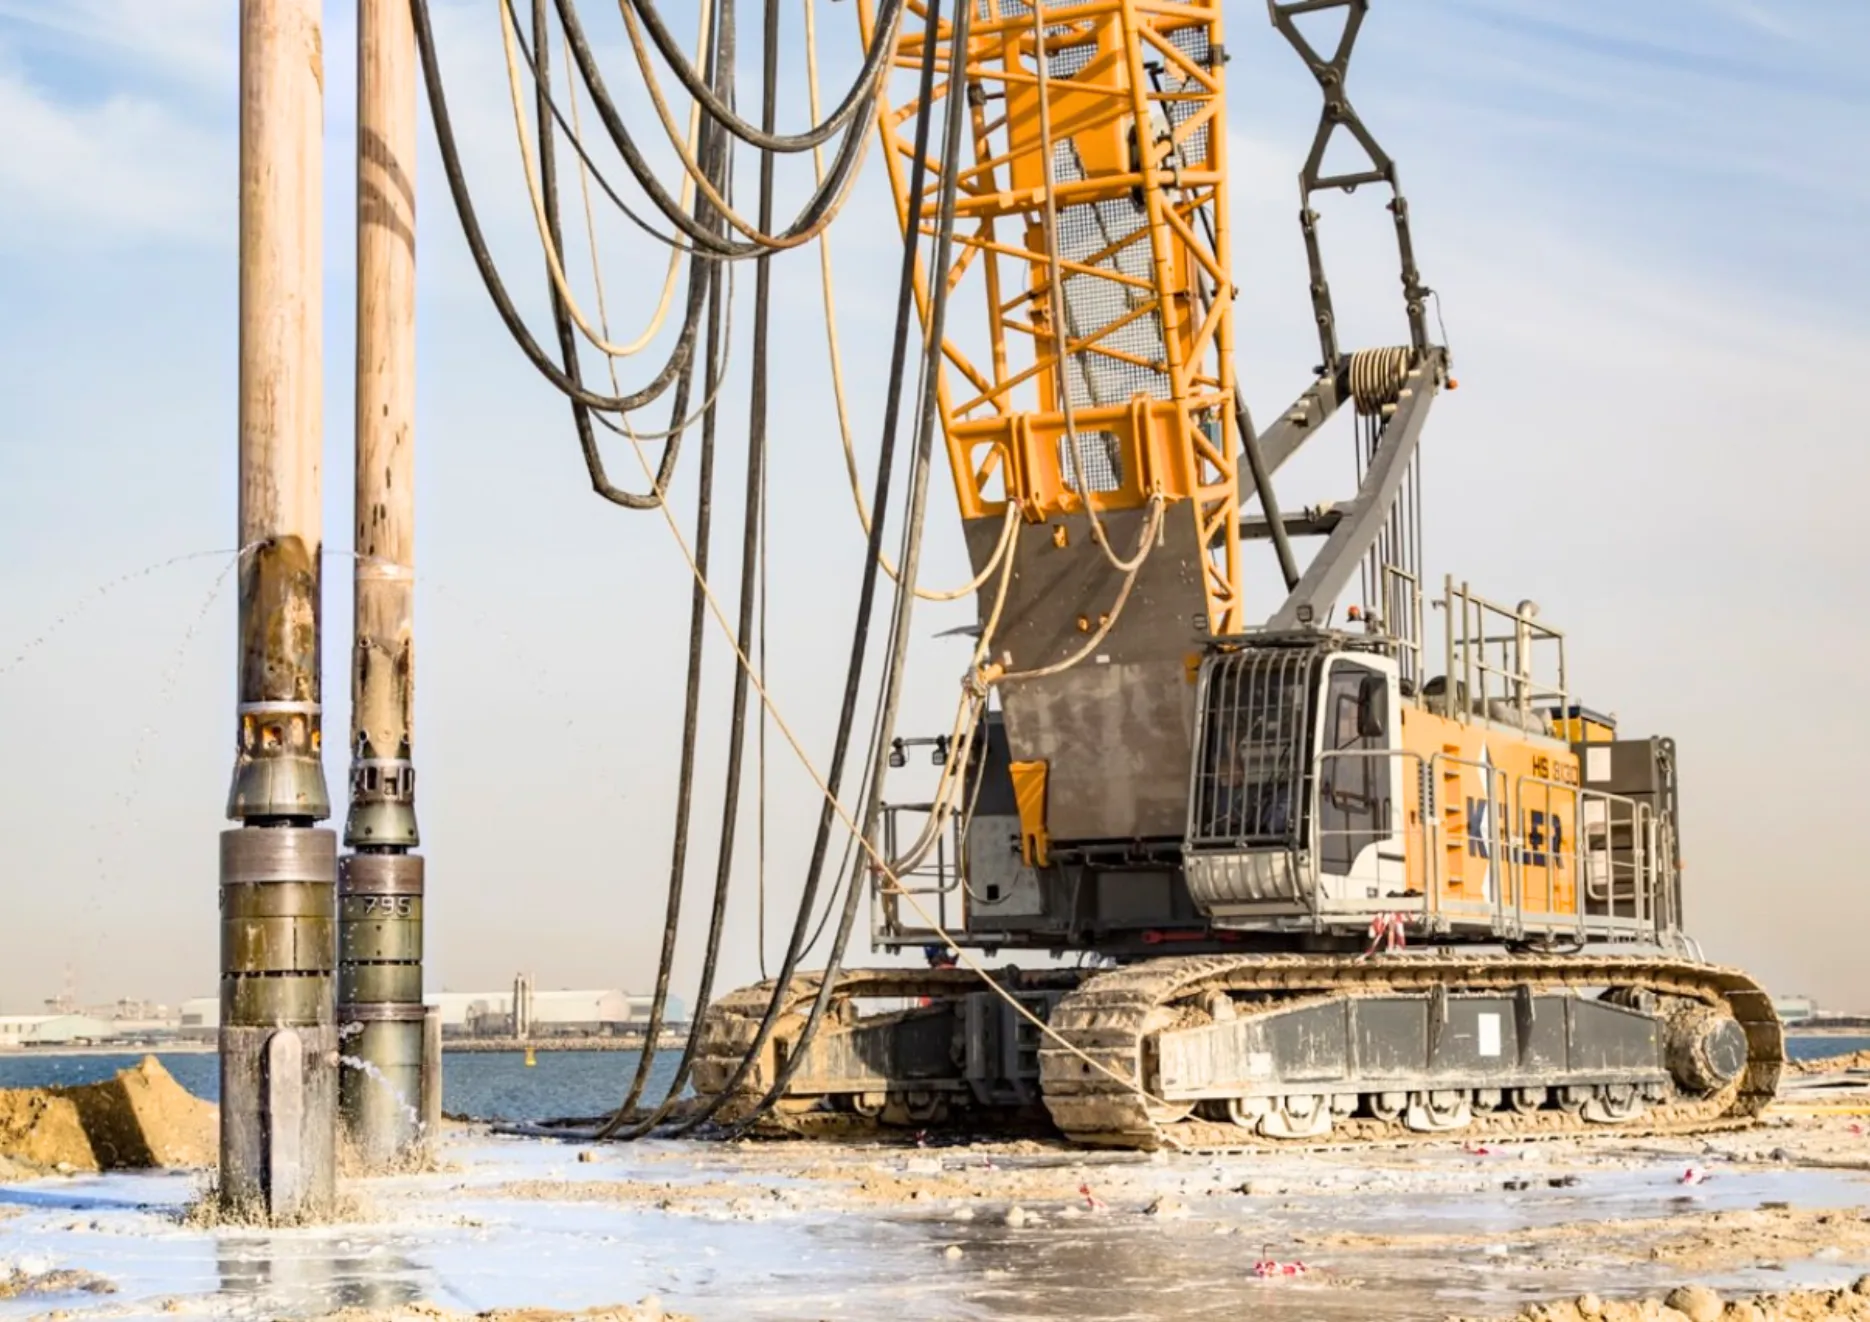
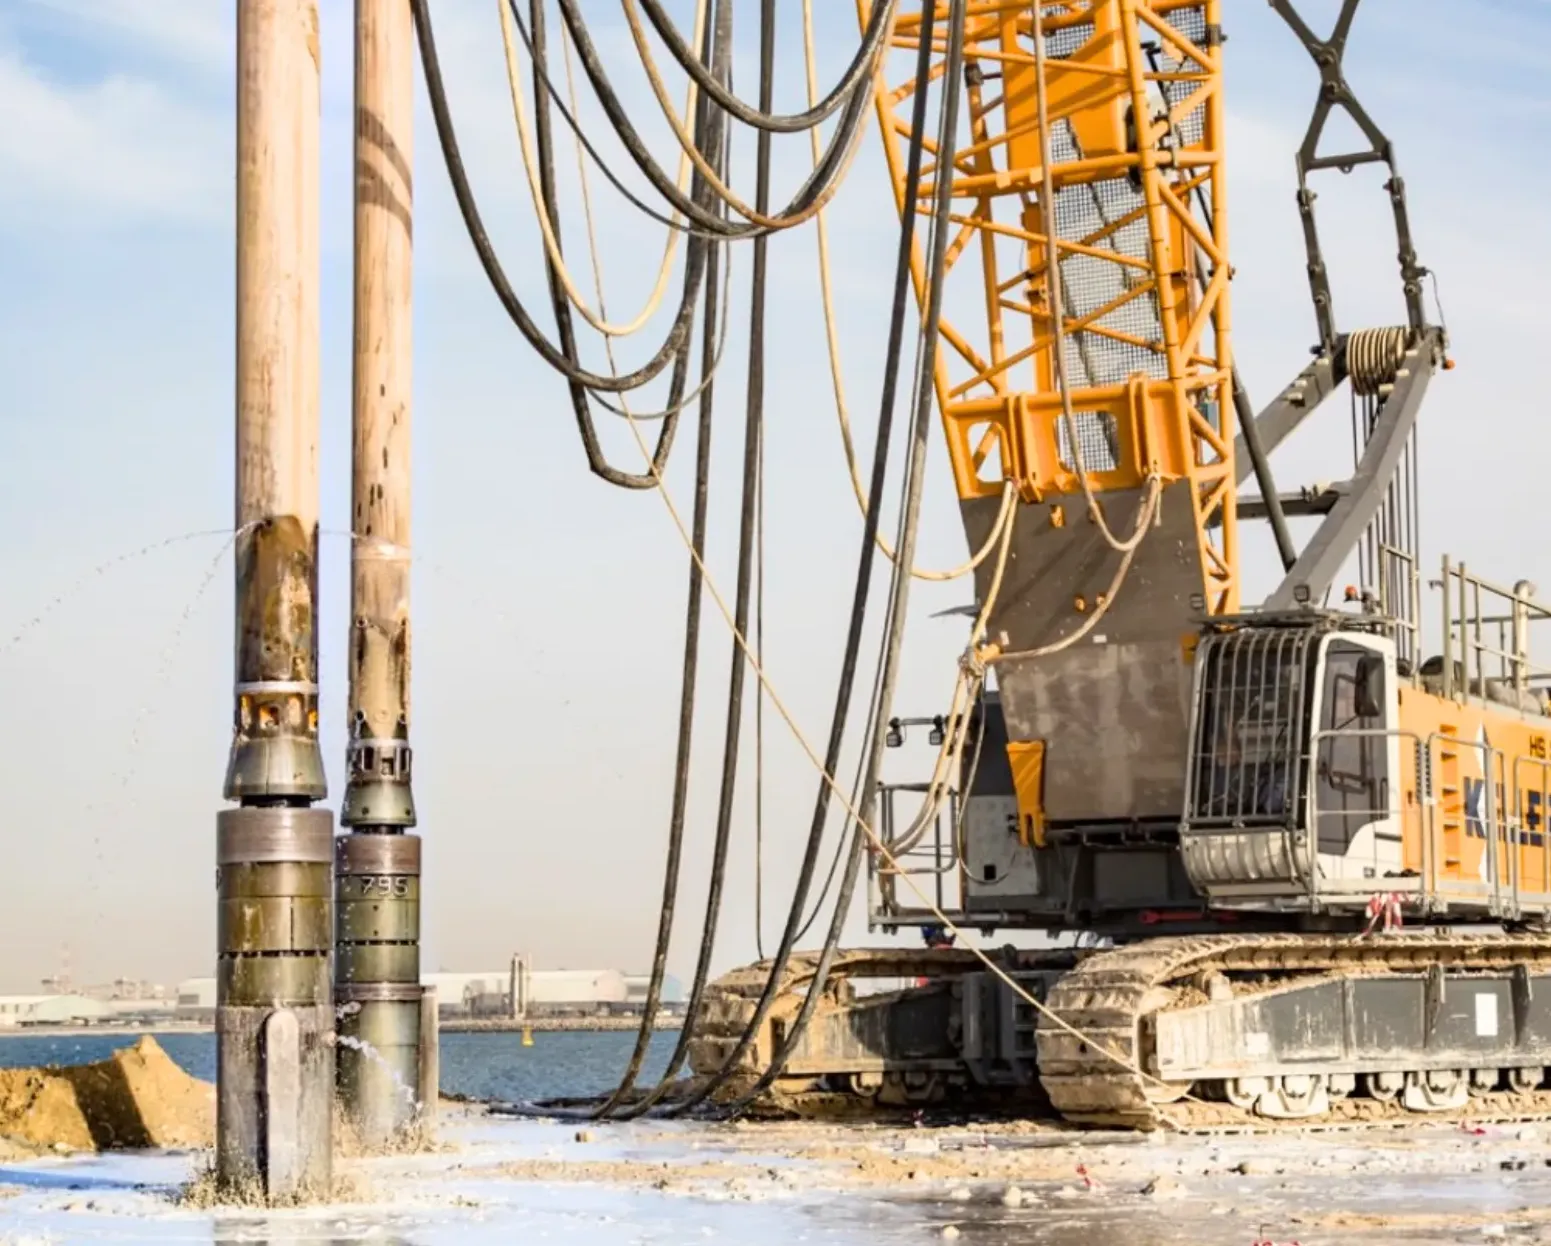
Update services

diff --git a/src/App.tsx b/src/App.tsx
@@ -76,7 +76,7 @@ function SocialSidebar() {
       <a href="https://x.com/TerraCoreme" target="_blank" rel="noopener noreferrer">
         <img src={x} alt="Twitter" className="w-10 h-10 opacity-75" />
       </a>
-      <a href="https://www.instagram.com/terracore.ae/" target="_blank" rel="noopener noreferrer">
+      <a href="https://www.instagram.com/terracoreme.ae/" target="_blank" rel="noopener noreferrer">
         <img src={ig} alt="Instagram" className="w-10 h-10 opacity-75" />
       </a>
       <a href="https://linkedin.com/company/terracore-ae" target="_blank" rel="noopener noreferrer">

diff --git a/src/components/services/subservices.tsx b/src/components/services/subservices.tsx
@@ -26,7 +26,7 @@ export default function Services({ services }: { services: Services }) {
             key={index}
             className="flex flex-col items-center justify-center"
           >
-            <img src={service.image} alt={service.title} className="w-52 h-52 2xl:w-72 2xl:h-72 object-cover rounded-full" />
+            <img src={service.image} alt={service.title} className="w-52 h-52 2xl:w-72 2xl:h-72 object-cover object-center rounded-full" />
             <h3 className="text-base md:text-xl text-gray-600 text-center my-8">
               {service.title}
             </h3>
